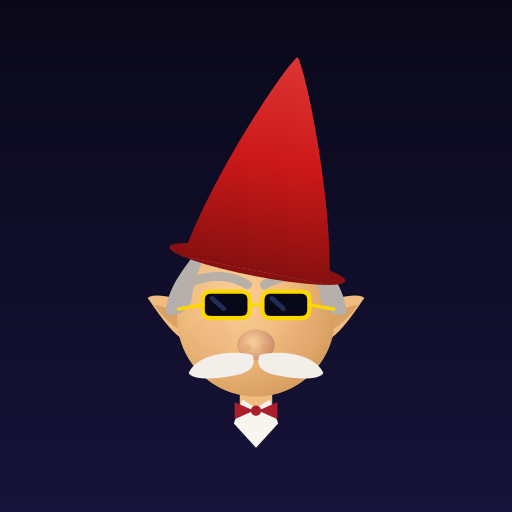
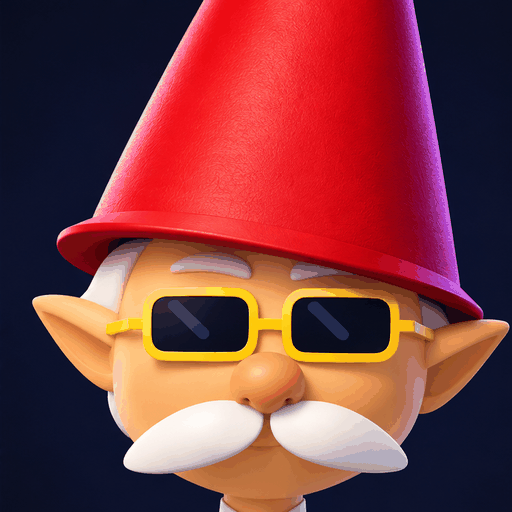
Refresh Metro's face to the 3D render, add a Meet Metro homepage section, drop remaining 'reward' wording
Replaces metro.png (nav/hero/footer/blog avatar) with the new 3D headshot and adds
a small homepage feature section for the full-body render that links to the
existing "Meet Metro" blog post. Also rewords the last few Gnotes/items-adjacent
uses of "reward" across the site to match the no-rewards-wording policy.

diff --git a/landing/index.html b/landing/index.html
@@ -493,6 +493,45 @@
     .audience-card h3 { font-size: 1rem; font-weight: 700; margin-bottom: 0.4rem; }
     .audience-card p { font-size: 0.82rem; color: var(--text-muted); line-height: 1.45; }
 
+    /* ── Meet Metro ────────────────────────────────────────────────── */
+    #meet-metro { background: var(--surface); }
+    .meet-metro-row {
+      display: flex;
+      flex-direction: column;
+      align-items: center;
+      gap: 2rem;
+      text-align: center;
+    }
+    @media (min-width: 700px) {
+      .meet-metro-row { flex-direction: row; text-align: left; gap: 2.75rem; }
+      .meet-metro-row .copy { flex: 1; }
+    }
+    .meet-metro-frame {
+      flex-shrink: 0;
+      width: 100%;
+      max-width: 230px;
+    }
+    .meet-metro-frame img {
+      width: 100%; height: auto; display: block;
+      border-radius: var(--radius);
+      filter: drop-shadow(0 16px 30px rgba(0, 0, 0, 0.5));
+    }
+    .meet-metro-row .copy .lead { margin: 0.6rem 0 1.25rem; }
+    @media (min-width: 700px) { .meet-metro-row .copy .lead { margin-inline: 0; } }
+    .meet-metro-row .see-all {
+      display: inline-flex; align-items: center; gap: 0.4rem;
+      font-weight: 700; font-size: 0.9rem; color: var(--gold);
+      padding: 0.55rem 1rem;
+      border: 1.5px solid var(--gold);
+      border-radius: 50px;
+      transition: background 0.2s, color 0.2s, transform 0.15s;
+      white-space: nowrap;
+    }
+    .meet-metro-row .see-all:hover {
+      background: var(--gold); color: #0D0B1E; transform: translateY(-2px);
+    }
+    .meet-metro-row .see-all svg { width: 14px; height: 14px; }
+
     /* ── Blog teaser ───────────────────────────────────────────────── */
     #blog-teaser {
       background: linear-gradient(180deg, var(--bg) 0%, var(--surface-deep) 100%);
@@ -1022,7 +1061,7 @@
             <li>Earn Gnotes from every activity</li>
             <li>Loyalty milestones</li>
             <li>Unlock Metro's accessories and forest world</li>
-            <li>Ad-free reward for hitting your daily goal</li>
+            <li>Ad-free session for hitting your daily goal</li>
             <li>A reason to come back tomorrow</li>
           </ul>
         </article>
@@ -1090,6 +1129,32 @@
           <p>Free forever. No subscription to forget about. The rhythm game makes a chore feel like a challenge.</p>
         </div>
 
+      </div>
+    </div>
+  </section>
+
+  <!-- ── Meet Metro ───────────────────────────────────────────────── -->
+  <section id="meet-metro">
+    <div class="container">
+      <div class="meet-metro-row">
+        <div class="meet-metro-frame">
+          <img src="metro-story.png" alt="Metro the gnome standing by a lake at night with a city skyline behind him" loading="lazy" width="600" height="833">
+        </div>
+        <div class="copy">
+          <p class="section-label">The mascot</p>
+          <h2>There's a gnome behind the metronome.</h2>
+          <p class="lead">
+            Metro isn't just a logo. He's got a backstory, an item collection you unlock by practising,
+            and a surprising amount of engineering behind that pendulum swing.
+          </p>
+          <a class="see-all" href="/blog/meet-metro-the-gnome-behind-the-metronome.html">
+            Read his story
+            <svg viewBox="0 0 24 24" fill="none" stroke="currentColor" stroke-width="2.5" stroke-linecap="round" stroke-linejoin="round" aria-hidden="true">
+              <line x1="5" y1="12" x2="19" y2="12"/>
+              <polyline points="13 5 20 12 13 19"/>
+            </svg>
+          </a>
+        </div>
       </div>
     </div>
   </section>

diff --git a/landing/blog/how-to-improve-your-timing.html b/landing/blog/how-to-improve-your-timing.html
@@ -120,7 +120,7 @@
 
       <p>This is exactly what we built. <strong>Groove Check</strong> is a feature in <a href="/">Metro Gnome</a>, available now from version 5.6. Here is how it works.</p>
 
-      <p>When you turn Groove Check on, the app listens through the microphone during your Practice and Speed Trainer sessions and measures how closely your playing lands on the beat. It separates your hits from the click by their sound, corrects for your device's audio latency with a quick one-time check, and turns the result into clear feedback on how well you kept time, plus a small reward for staying in the pocket. If you would rather just play a game with it, the rhythm game uses the same listening engine to score how tightly you clap along.</p>
+      <p>When you turn Groove Check on, the app listens through the microphone during your Practice and Speed Trainer sessions and measures how closely your playing lands on the beat. It separates your hits from the click by their sound, corrects for your device's audio latency with a quick one-time check, and turns the result into clear feedback on how well you kept time, plus a few bonus Gnotes for staying in the pocket. If you would rather just play a game with it, the rhythm game uses the same listening engine to score how tightly you clap along.</p>
 
       <p>It runs entirely on your device. Nothing is recorded or uploaded, there is no account, and the rest of the app works exactly as before whether you switch it on or not. Like everything in Metro Gnome, it is free.</p>
 

diff --git a/landing/blog/meet-metro-the-gnome-behind-the-metronome.html b/landing/blog/meet-metro-the-gnome-behind-the-metronome.html
@@ -66,7 +66,7 @@
       </div>
       <h1>Meet Metro: The Gnome Behind the Metronome</h1>
       <p class="article-intro">
-        Open most metronome apps and you get a number, a start button, and a grid of grey. Open Metro Gnome and a small bearded conductor in a pointed hat raises his baton, waits for you, and starts swaying the moment the click begins. This post is about him: why he exists, the engineering hiding underneath the whimsy, and the world of items, rewards, and Gnotes that turns daily practice into something you look forward to.
+        Open most metronome apps and you get a number, a start button, and a grid of grey. Open Metro Gnome and a small bearded conductor in a pointed hat raises his baton, waits for you, and starts swaying the moment the click begins. This post is about him: why he exists, the engineering hiding underneath the whimsy, and the world of items and Gnotes that turns daily practice into something you look forward to.
       </p>
     </header>
 

diff --git a/landing/privacy.html b/landing/privacy.html
@@ -72,7 +72,7 @@
 
       <h2>Data Stored On Your Device</h2>
 
-      <p>Your settings, presets, high scores, practice streak, unlocked items, and reward progress are saved locally on your device only. This information stays on your phone, is not sent to us, and is removed when you uninstall the app.</p>
+      <p>Your settings, presets, high scores, practice streak, unlocked items, and unlock progress are saved locally on your device only. This information stays on your phone, is not sent to us, and is removed when you uninstall the app.</p>
 
       <h2>Anonymous Usage Analytics</h2>
 
